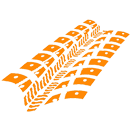
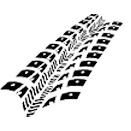
mainumby

diff --git a/mainumby.html b/mainumby.html
@@ -259,6 +259,10 @@
     box-shadow: rgba(100, 100, 111, 0.2) 0px 7px 29px 0px;
     width: 100%;
 }
+
+.travesia-card {
+    padding: 20px;        
+}
 </style>
 </head>
 
@@ -319,7 +323,7 @@
 <div class="container">
     <div class="row">
         <div class="col-12">            
-            <h2 style="color: #000;"><b>PROXIMA TRAVESIA</b></h2><br>            
+            <h2 style="color: #000;"><b>PROXIMA TRAVESIA <img src="assets/img/huella.png" style="width: 5%;"></b></h2><br>            
         </div>
     </div>
     <div class="row">        
@@ -344,83 +348,181 @@
 <div class="container">
     <div class="row">
         <div class="col-12">            
-            <h2 style="color: #000;"><b>CALENDARIO DE TRAVESIAS</b></h2><br>            
+            <h2 style="color: #000;"><b>CALENDARIO DE TRAVESIAS <img src="assets/img/huella.png" style="width: 5%;"></b></h2><br>            
             <h3 style="color: #000;"><b>2024</b></h3><br>            
         </div>
-    </div>    
-    <div class="row">
-        <div class="col-12 col-sm-12 col-md-6 col-lg-3">
+    </div>        
+    <div class="row travesia-card">
+        <div class="col-12 col-sm-12 col-md-6 col-lg-6">
             <center>
-                <div class="card" style="width: 18rem;">
-                    <img class="card-img-top" src="assets/img/travesia1.jpg" alt="Card image cap">
-                    <div class="card-body">
-                        <small><i class="fa-solid fa-location-dot"></i> Laguna El Cuerno, La Rioja</small>                                           
-                    </div>
-                    <div class="date">
-                        <h6 style="color: #000;"><b>9 AL 13 DE OCTUBRE</b></h6>                      
-                    </div><br>                    
-                </div>
-            </center>   
+                <img src="assets/img/travesia1.jpg" style="width: 70%;">
+            </center>           
+            <br><br>
         </div>  
-        <div class="col-12 col-sm-12 col-md-6 col-lg-3">
+        <div class="col-12 col-sm-12 col-md-6 col-lg-6">
+            <h5 style="color: #000;"><b>EXPEDICIÓN</b></h5>
+            <h4 style="color: #000;"><b>LAGUNA EL CUERNO, LA RIOJA</b></h4><br>   
+            <span>Nuevo track exclusivo para aventureros off road: laguna El Cuerno, a 4.200 msnm en plena cordillera. Unos 500 km de huellas montañosas con dos noches de campamento en medio de la más infinita soledad. Llegaremos también a las lagunas El Leoncito, Veladero y Brava, con su avión que en 1964 realizó un aterrizaje de emergencia. Ultimo día: Quebrada del Yeso.</span><br><br>
+            <h6 style="color: #000;"><b>NIVEL MEDIO, MULTIMARCA Y MULTINIVEL.</b></h6><br>   
+            <small style="color: #000;"><b><i class="fa-regular fa-calendar"></i> 9 A 13 DE OCTUBRE (FIN DE SEMANA LARGO).</b></small><br>
+            <small style="color: #000;"><b><i class="fa-solid fa-truck-pickup"></i> MAXIMO 7 CAMIONETAS</b></small><br>   
+            <small style="color: #000;"><b><i class="fa-solid fa-location-dot"></i> PUNTO DE ENCUENTRO: VILLA UNIÓN, LA RIOJA</b></small><br>   
+         </div>  
+    </div>
+    <hr>
+    <div class="row travesia-card">
+        <div class="col-12 col-sm-12 col-md-6 col-lg-6">
             <center>
-                <div class="card" style="width: 18rem;">
-                    <img class="card-img-top" src="assets/img/travesia2.jpg" alt="Card image cap">
-                    <div class="card-body">
-                        <small><i class="fa-solid fa-location-dot"></i> Cafayate, Salta</small>                                           
-                    </div>
-                    <div class="date">
-                        <h6 style="color: #000;"><b>16 AL 24 DE OCTUBRE</b></h6>                      
-                    </div><br>                    
-                </div>
-            </center>   
+                <img src="assets/img/travesia2.jpg" style="width: 70%;">
+            </center>           
+            <br><br>
         </div>  
-    </div><br><br><br>
+        <div class="col-12 col-sm-12 col-md-6 col-lg-6">
+            <h5 style="color: #000;"><b>EXPEDICIÓN</b></h5> 
+            <h4 style="color: #000;"><b>TIERRA SIN SOMBRA: ATACAMA + NOA</b></h4><br>   
+            <span>Increíble recorrido de 2.000 km a través de los lugares menos conocidos del noroeste argentino y chileno: Garganta del Diablo, Cuesta del Obispo, La Poma, Abra del Acay (4.895 msnm), Viaducto La Polvorilla, Paso de Jama, San Pedro de Atacama, Valle de la Luna, géiseres del Tatio, Reserva Nacional de Flamencos, salares de Pocitos, Arizaro y Antofalla; Desierto del Diablo, Ojos de Mar, Antofagasta de la Sierra, El Peñón, campos de Lava y de Piedra Pómez.</span><br><br>
+            <h6 style="color: #000;"><b>NIVEL MEDIO, MULTIMARCA Y MULTINIVEL.</b></h6><br>   
+            <small style="color: #000;"><b><i class="fa-regular fa-calendar"></i> 16 AL 24 DE NOVIEMBRE.</b></small><br>
+            <small style="color: #000;"><b><i class="fa-solid fa-truck-pickup"></i> MAXIMO 6 CAMIONETAS</b></small><br>   
+            <small style="color: #000;"><b><i class="fa-solid fa-location-dot"></i> PUNTO DE ENCUENTRO: CAFAYATE, SALTA</b></small><br>   
+         </div>  
+    </div>
+    <hr>
+</div>
+
+
+<br>
+
+<div class="container">
     <div class="row">
         <div class="col-12">                      
             <h3 style="color: #000;"><b>2025</b></h3><br>            
         </div>
-    </div>    
-    <div class="row">
-        <div class="col-12 col-sm-12 col-md-6 col-lg-3">
+    </div>        
+    <div class="row travesia-card">
+        <div class="col-12 col-sm-12 col-md-6 col-lg-6">
             <center>
-                <div class="card" style="width: 18rem;">
-                    <img class="card-img-top" src="assets/img/travesia3.jpg" alt="Card image cap">
-                    <div class="card-body">
-                        <small><i class="fa-solid fa-location-dot"></i> Villa Unión, La Rioja</small>                                           
-                    </div>
-                    <div class="date">
-                        <h6 style="color: #000;"><b>22 AL 26 DE ENERO</b></h6>                      
-                    </div><br>                    
-                </div>
-            </center>   
+                <img src="assets/img/travesia3.jpg" style="width: 70%;">
+            </center>           
+            <br><br>
         </div>  
-        <div class="col-12 col-sm-12 col-md-6 col-lg-3">
+        <div class="col-12 col-sm-12 col-md-6 col-lg-6">
+            <h5 style="color: #000;"><b>EXPEDICIÓN</b></h5>
+            <h4 style="color: #000;"><b>CRUCE SANMARTINIANO DE LA CORDILLERA DE LOS ANDES POR EL PASO COME CABALLOS</b></h4><br>   
+            <span>Travesía exclusiva de Mainumby4x4 que recrea la Expedición Zelada-Dávila-Larroahona, el cruce del Ejército Sanmartiniano a través del paso Come Caballos, en La Rioja, durante 1817 para liberar Chile. En el hito nos encontraremos con las autoridades chilenas para izar ambas banderas, entonar las estrofas de los himnos nacionales y bajar a Villa Unión. Desde allí continuaremos viaje a Sanagasta, donde disfrutaremos de un novedoso circuito off road.</span><br><br>
+            <h6 style="color: #000;"><b>NIVEL MEDIO, MULTIMARCA Y MULTINIVEL.</b></h6><br>   
+            <small style="color: #000;"><b><i class="fa-regular fa-calendar"></i> 22 A 26 DE ENERO.</b></small><br>
+            <small style="color: #000;"><b><i class="fa-solid fa-truck-pickup"></i> MAXIMO 8 CAMIONETAS</b></small><br>   
+            <small style="color: #000;"><b><i class="fa-solid fa-location-dot"></i> PUNTO DE ENCUENTRO: VILLA UNIÓN, LA RIOJA</b></small><br>   
+         </div>  
+    </div>
+    <hr>
+    <div class="row travesia-card">
+        <div class="col-12 col-sm-12 col-md-6 col-lg-6">
             <center>
-                <div class="card" style="width: 18rem;">
-                    <img class="card-img-top" src="assets/img/travesia4.jpg" alt="Card image cap">
-                    <div class="card-body">
-                        <small><i class="fa-solid fa-location-dot"></i> Malargüe, Mendoza</small>                                           
-                    </div>
-                    <div class="date">
-                        <h6 style="color: #000;"><b>14 AL 18 DE FEBRERO</b></h6>                      
-                    </div><br>                    
-                </div>
-            </center>   
+                <img src="assets/img/travesia4.jpg" style="width: 70%;">
+            </center>           
+            <br><br>
         </div>  
-        <div class="col-12 col-sm-12 col-md-6 col-lg-3">
+        <div class="col-12 col-sm-12 col-md-6 col-lg-6">
+            <h5 style="color: #000;"><b>EXPEDICIÓN</b></h5> 
+            <h4 style="color: #000;"><b>ASCENSO A LA CALDERA DEL VOLCAN PAYUN MATRU + LA PAYUNIA + VOLCAN MALACARA</b></h4><br>   
+            <span>Travesía a través del desierto de lava negra y una de las reservas de volcanes más grande del planeta. Recorrido por las entrañas del volcán Malacara. Acceso al hotel termal abandonado de El Sosneado. Vadeo del río Atuel. Y un nuevo circuito a través de huellas mendocinas olvidadas. </span><br><br>
+            <h6 style="color: #000;"><b>NIVEL MEDIO, MULTIMARCA Y MULTINIVEL.</b></h6><br>   
+            <small style="color: #000;"><b><i class="fa-regular fa-calendar"></i> 5 A 9 DE FEBRERO.</b></small><br>
+            <small style="color: #000;"><b><i class="fa-solid fa-truck-pickup"></i> MAXIMO 8 CAMIONETAS</b></small><br>   
+            <small style="color: #000;"><b><i class="fa-solid fa-location-dot"></i> PUNTO DE ENCUENTRO: MALARGUE, MENDOZA</b></small><br>   
+         </div>  
+    </div>
+    <hr>
+    <div class="row travesia-card">
+        <div class="col-12 col-sm-12 col-md-6 col-lg-6">
             <center>
-                <div class="card" style="width: 18rem;">
-                    <img class="card-img-top" src="assets/img/travesia5.jpg" alt="Card image cap">
-                    <div class="card-body">
-                        <small><i class="fa-solid fa-location-dot"></i> Aeropuerto de Ezeiza</small>                                           
-                    </div>
-                    <div class="date">
-                        <h6 style="color: #000;"><b>27 A 3 DE MAYO</b></h6>                      
-                    </div><br>                    
-                </div>
-            </center>   
+                <img src="assets/img/travesia5.jpg" style="width: 70%;">
+            </center>           
+            <br><br>
         </div>  
+        <div class="col-12 col-sm-12 col-md-6 col-lg-6">
+            <h5 style="color: #000;"><b>EXPEDICIÓN</b></h5> 
+            <h4 style="color: #000;"><b>FIN DEL MUNDO, TIERRA DEL FUEGO</b></h4><br>   
+            <span>El otoño le imprime color a esta travesía de 1.000 km a través de la isla de Tierra del Fuego. Visitamos Cabo San Pablo, el barco encallado Desdémona, hosterías abandonadas, el Hito 1, Puerto Almanza, Tolhuin, Río Grande, y la estancia Túnel, entre otros puntos, todo a través de caminos internos de ripio.</span><br><br>
+            <h6 style="color: #000;"><b>NIVEL MEDIO, FAMILIAR.</b></h6><br>   
+            <small style="color: #000;"><b><i class="fa-regular fa-calendar"></i> 31 DE MARZO A 6 DE ABRIL.</b></small><br>
+            <small style="color: #000;"><b><i class="fa-solid fa-truck-pickup"></i> MAXIMO 7 CAMIONETAS</b></small><br>   
+            <small style="color: #000;"><b><i class="fa-solid fa-location-dot"></i> PUNTO DE ENCUENTRO: AEROPUERTO INTERNACIONAL DE EZEIZA</b></small><br>   
+         </div>  
+    </div>
+    <hr>
+    <div class="row travesia-card">
+        <div class="col-12 col-sm-12 col-md-6 col-lg-6">
+            <center>
+                <img src="assets/img/travesia6.jpg" style="width: 70%;">
+            </center>           
+            <br><br>
+        </div>  
+        <div class="col-12 col-sm-12 col-md-6 col-lg-6">
+            <h5 style="color: #000;"><b>EXPEDICIÓN</b></h5> 
+            <h4 style="color: #000;"><b>PIEDRAS PICANTES, MINA CLAVERO, CORDOBA</b></h4><br>   
+            <span>El Valle de Traslasierra, en Córdoba, es el escenario de esta travesía técnica a través de un valle de piedras complejas. Tres días por diferentes zonas que desafían a los pilotos más intrépidos. Ideal para quienes disfrutan del verdadero off road por roca.</span><br><br>
+            <h6 style="color: #000;"><b>NIVEL MEDIO, MULTIMARCA Y MULTINIVEL.</b></h6><br>   
+            <small style="color: #000;"><b><i class="fa-regular fa-calendar"></i> 21 A 25 DE MAYO.</b></small><br>
+            <small style="color: #000;"><b><i class="fa-solid fa-truck-pickup"></i> MAXIMO 8 CAMIONETAS</b></small><br>   
+            <small style="color: #000;"><b><i class="fa-solid fa-location-dot"></i> PUNTO DE ENCUENTRO: MINA CLAVERO, CORDOBA</b></small><br>   
+         </div>  
+    </div>
+    <hr>
+    <div class="row travesia-card">
+        <div class="col-12 col-sm-12 col-md-6 col-lg-6">
+            <center>
+                <img src="assets/img/travesia7.jpg" style="width: 70%;">
+            </center>           
+            <br><br>
+        </div>  
+        <div class="col-12 col-sm-12 col-md-6 col-lg-6">
+            <h5 style="color: #000;"><b>EXPEDICIÓN</b></h5> 
+            <h4 style="color: #000;"><b>SAN JUAN AL LIMITE: DONDE LOS MAPAS NO SE ATREVEN</b></h4><br>   
+            <span>Tres días a través de un San Juan desconocido por el off road: trepada al cerro Precalingastino, dunas de Encón, Difunta Correa, lechos de ríos secos, Corral de Piedra, Quebrada de Agua del Gato, dique Ullum, Cueva del Quemado y Loma de las Tapias.</span><br><br>
+            <h6 style="color: #000;"><b>NIVEL MEDIO, MULTIMARCA Y MULTINIVEL.</b></h6><br>   
+            <small style="color: #000;"><b><i class="fa-regular fa-calendar"></i> 19 A 22 DE JUNIO.</b></small><br>
+            <small style="color: #000;"><b><i class="fa-solid fa-truck-pickup"></i> MAXIMO 8 CAMIONETAS</b></small><br>   
+            <small style="color: #000;"><b><i class="fa-solid fa-location-dot"></i> PUNTO DE ENCUENTRO: SAN JUAN CAPITAL</b></small><br>   
+         </div>  
+    </div>
+    <hr>
+    <div class="row travesia-card">
+        <div class="col-12 col-sm-12 col-md-6 col-lg-6">
+            <center>
+                <img src="assets/img/travesia8.jpg" style="width: 70%;">
+            </center>           
+            <br><br>
+        </div>  
+        <div class="col-12 col-sm-12 col-md-6 col-lg-6">
+            <h5 style="color: #000;"><b>EXPEDICIÓN</b></h5> 
+            <h4 style="color: #000;"><b>NIEVE MÁS ALLÁ DE LA FRONTERA OFF ROAD, CHOS MALAL, NEUQUEN</b></h4><br>   
+            <span>Abrimos huella en la espesura de Chos Malal, Neuquén, un destino nada habitual para travesías invernales, donde abundan la soledad y los bellísimos paisajes. Por caminos interiores tapados de nieve llegamos hasta Caviahue, el Salto del Agrio, Cajón del Atreuco, Las Olletas, Los Tachos, Tricao Malal y laguna El Palao, entre otros atractivos.</span><br><br>
+            <h6 style="color: #000;"><b>NIVEL MEDIO, MULTIMARCA Y MULTINIVEL.</b></h6><br>   
+            <small style="color: #000;"><b><i class="fa-regular fa-calendar"></i> 16 AL 20 Y 21 A 25 DE JULIO (VACACIONES DE INVIERNO).</b></small><br>
+            <small style="color: #000;"><b><i class="fa-solid fa-truck-pickup"></i> MAXIMO 8 CAMIONETAS</b></small><br>   
+            <small style="color: #000;"><b><i class="fa-solid fa-location-dot"></i> PUNTO DE ENCUENTRO: CHOS MALAL, NEUQUEN</b></small><br>   
+         </div>  
+    </div>
+    <hr>
+    <div class="row travesia-card">
+        <div class="col-12 col-sm-12 col-md-6 col-lg-6">
+            <center>
+                <img src="assets/img/travesia9.jpg" style="width: 70%;">
+            </center>           
+            <br><br>
+        </div>  
+        <div class="col-12 col-sm-12 col-md-6 col-lg-6">
+            <h5 style="color: #000;"><b>EXPEDICIÓN</b></h5> 
+            <h4 style="color: #000;"><b>NIEVE SOBRE LAVA, MALARGUE, MENDOZA</b></h4><br>   
+            <span>Nuevo recorrido a través de la nieve al hotel termas de El Sosneado (laguna homónima) con la posibilidad de llegar hasta la mina de azufre abandonada Sominar en las nacientes del río Atuel. Circuito a Termas de Cajón Grande, camino a Chile, con cruce de arroyo. Castillos de Pincheira invernal, con ascenso al paso del Carqueque y a las canteras de yeso.</span><br><br>
+            <h6 style="color: #000;"><b>NIVEL MEDIO, MULTIMARCA Y MULTINIVEL.</b></h6><br>   
+            <small style="color: #000;"><b><i class="fa-regular fa-calendar"></i> 20 A 24 DE AGOSTO.</b></small><br>
+            <small style="color: #000;"><b><i class="fa-solid fa-truck-pickup"></i> MAXIMO 6 CAMIONETAS</b></small><br>   
+            <small style="color: #000;"><b><i class="fa-solid fa-location-dot"></i> PUNTO DE ENCUENTRO: MALARGUE, MENDOZA</b></small><br>   
+         </div>  
     </div>
 </div>
 
